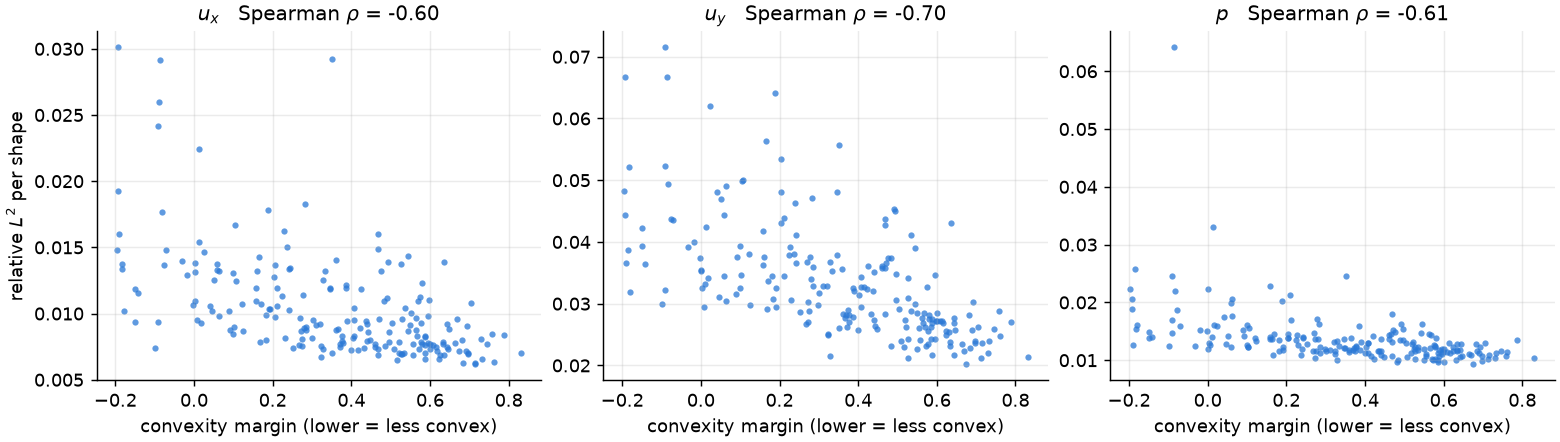
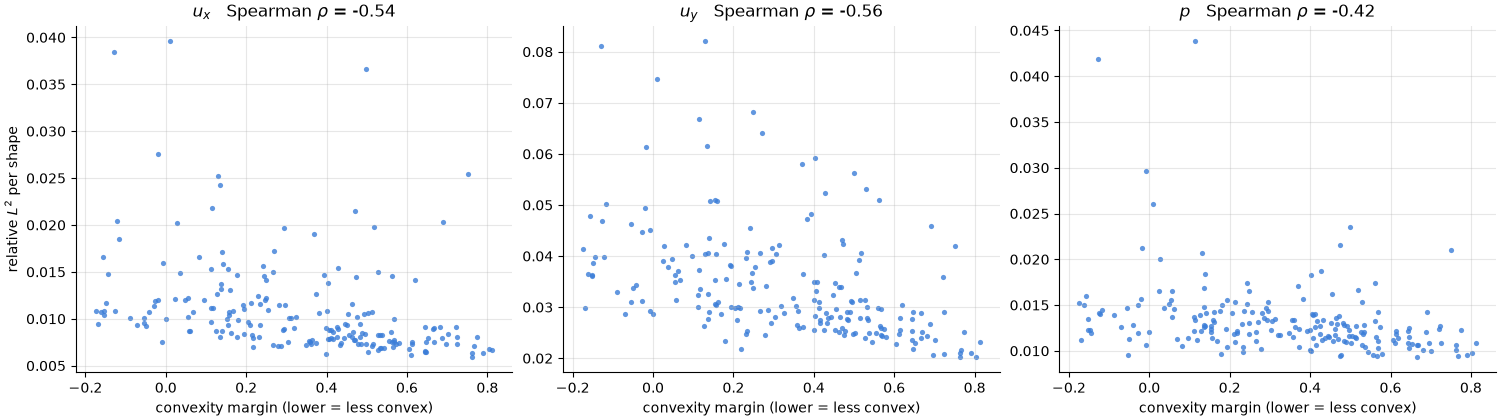
Document evaluation scripts and add test-set results

diff --git a/README.md b/README.md
@@ -111,16 +111,34 @@ model = DeepONet(**ckpt["model_cfg"])
 model.load_state_dict(ckpt["model"])
 ```
 
+### Evaluation and figures
+
+Generate the test set, compute per-shape errors, and rebuild the figures:
+
+```bash
+uv run python scripts/generate_dataset.py --seed 1 --n-shapes 200 --out test_convex
+uv run python scripts/evaluate.py checkpoints/best.pt test_convex               # -> data/test_convex_eval.csv
+uv run python scripts/evaluate.py checkpoints/best.pt train_convex --val        # validation shapes only
+uv run python scripts/plot_convexity.py data/test_convex_eval.csv               # -> docs/figures/error_vs_convexity.png
+uv run python scripts/plot_trefoil.py checkpoints/best.pt                       # -> docs/figures/nonconvex_trefoil.png
+```
+
+`evaluate.py` writes one row per shape: index, convexity margin, and relative $L^2$ for $u_x$, $u_y$ and $p$ over all fluid cells and over the wall band. It takes the SDF resolution, normalisation and validation split from the checkpoint, so it uses exactly the preprocessing the model was trained with. `plot_trefoil.py` solves the trefoil with the LBM, which takes a minute or two on a CPU.
+
 ---
 
 ## Results
 
-Trained for 1000 epochs with `WALL_FRAC=0.5`, evaluated on 200 held-out shapes:
+Trained for 1000 epochs with `WALL_FRAC=0.5`. The test set is 200 new convex shapes from the same distribution, generated with a different seed and never used during training or model selection:
 
-| Validation relative $L^2$ | $u_x$ | $u_y$ | $p$ |
+| Relative $L^2$ (mean over shapes) | $u_x$ | $u_y$ | $p$ |
 |---|---|---|---|
-| All fluid cells | 0.010 | 0.033 | 0.014 |
-| Wall band ($\|\text{sdf}\| < 0.3\,r_0$) | 0.067 | 0.089 | 0.041 |
+| Test, all fluid cells | 0.011 | 0.034 | 0.013 |
+| Test, wall band ($\|\text{sdf}\| < 0.3\,r_0$) | 0.071 | 0.091 | 0.040 |
+| Validation, all fluid cells | 0.010 | 0.033 | 0.014 |
+| Validation, wall band | 0.067 | 0.089 | 0.041 |
+
+Test error is close to validation error, so choosing the checkpoint by validation error did not overfit the validation shapes.
 
 $u_y$ has the highest relative error mostly because it is close to zero over most of the domain. The wall band is harsher still, because no-slip drives the velocity towards zero there.
 
@@ -130,11 +148,11 @@ The predicted fields for a typical validation shape (median error) match the LBM
 
 ![Median validation shape](docs/figures/median_validation_shape.png)
 
-Error grows steadily as shapes become less convex, even within the training distribution:
+Error grows steadily as shapes become less convex, even within the training distribution (test set shown; the trend is somewhat stronger on the validation set, with Spearman $\rho$ of −0.60, −0.70 and −0.61):
 
 ![Error vs convexity margin](docs/figures/error_vs_convexity.png)
 
-On a non-convex trefoil (convexity margin −2.86, far below the training minimum of −0.2), the model still gets the overall flow right: the wake, the acceleration around the body, and the stagnation pressure. But it smooths over the concave notches, and the error is about 4–5× the validation median (`ux` 0.048, `uy` 0.154, `p` 0.052):
+On a non-convex trefoil (convexity margin −2.86, far below the training minimum of −0.2), the model still gets the overall flow right: the wake, the acceleration around the body, and the stagnation pressure. But it smooths over the concave notches, and the error is about 4–5× the test-set median (`ux` 0.048, `uy` 0.154, `p` 0.052):
 
 ![Non-convex trefoil](docs/figures/nonconvex_trefoil.png)
 
@@ -144,10 +162,14 @@ On a non-convex trefoil (convexity margin −2.86, far below the training minimu
 
 ```text
 scripts/generate_dataset.py   shape sampling + LBM solves -> data/
+scripts/evaluate.py           per-shape errors of a checkpoint -> CSV
+scripts/plot_convexity.py     error vs convexity figure from an evaluate CSV
+scripts/plot_trefoil.py       DeepONet vs LBM on a non-convex trefoil
 src/grf.py                    Gaussian random function sampling
 src/geometry.py               shape sampling, masks, SDF, convexity test
 src/solvers/lbm.py            batched JAX lattice Boltzmann solver
 src/model.py                  DeepONet
+src/data.py                   crop, preprocessing and error metric shared by training and evaluation
 src/train.py                  training on the convex-shape dataset
 src/data_generator.py         antiderivative targets
 ```
